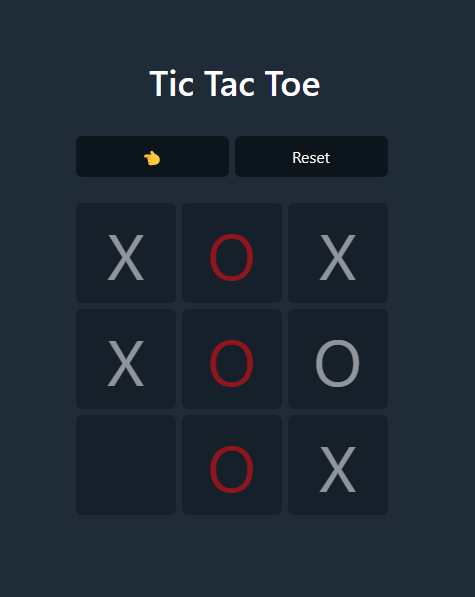
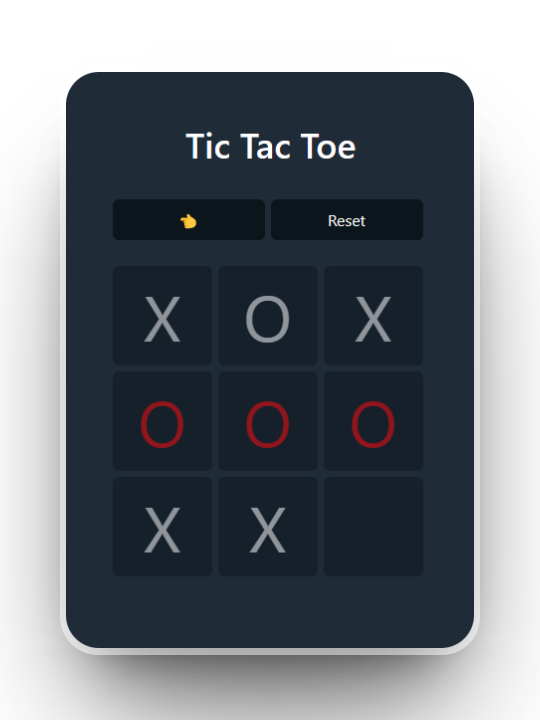
updated README.md and screenshots

diff --git a/README.md b/README.md
@@ -1,25 +1,41 @@
 # Tic Tac Toe
 
+[👆 Live Demo](https://tic-tac-toe-ai-nine.vercel.app/)
+
+<img src="screenshots/main.png" align="right"
+     alt="Size Limit logo by Anton Lovchikov" width="120" height="178">
+
+
+This is a simple tic-tac-toe game built with React and TypeScript. It includes an AI enemy that uses the `minimax` algorithm to play against the player.
+
 ![Main](screenshots/main.png)
 ![Game](screenshots/game.png)
 
-[Live Demo](https://tic-tac-toe-ai-nine.vercel.app/)
 
--   Lets you play tic-tac-toe,
--   Indicates when a player has won the game
--   AI enemy using `minimax` algorithm
+## Features
 
-## How to run
+- Lets you play tic-tac-toe
+- Indicates when a player has won the game
+- Includes an AI enemy using `minimax` algorithm
 
-```shell
-# Cloning the repo
-git clone https://github.com/rivasjoaquin02/tic-tac-toe
+## Getting Started
 
-# Install Dependencies
-pnpm install
+### Prerequisites
 
-# Run Dev Server
-pnpm run dev
-```
+- Node.js (v14 or higher)
+- npm or pnpm
 
-Open http://localhost:3000 with your browser to see the result.
+### Installation
+
+1. Clone the repo: `git clone https://github.com/rivasjoaquin02/tic-tac-toe`
+2. Install dependencies: `pnpm install`
+3. Start the development server: `pnpm run dev`
+4. Open http://localhost:3000 with your browser to see the result.
+
+## Contributing
+
+Contributions are welcome! Please see [CONTRIBUTING.md](CONTRIBUTING.md) for more details.
+
+## License
+
+This project is licensed under the MIT License - see the [LICENSE.md](LICENSE.md) file for details.
